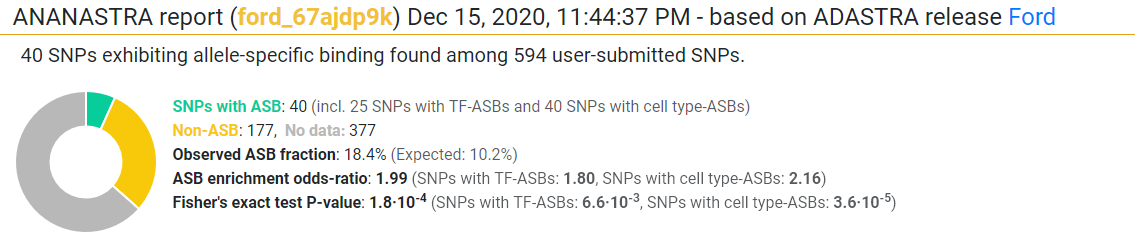
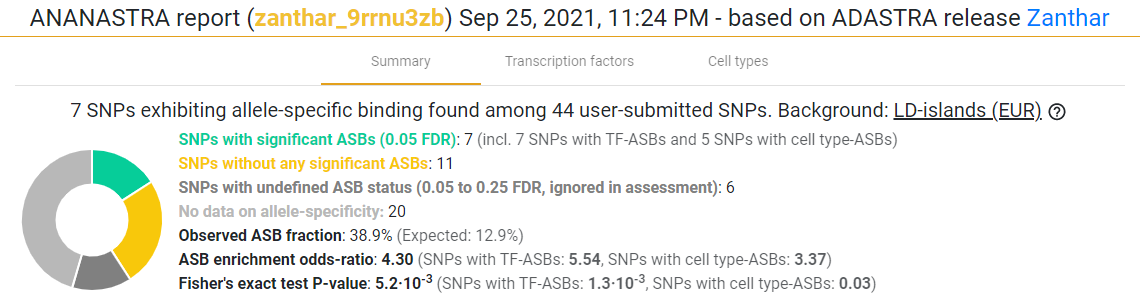
More help fixes

diff --git a/src/app/modules/pages/ananas-help-page/ananas-help.component.html b/src/app/modules/pages/ananas-help-page/ananas-help.component.html
@@ -319,7 +319,7 @@
                             Below the overal statistics, there is a collapsible table of chromosome-wise ASB enrichment data.
                             <span
                                 class="preview d-none d-lg-inline"
-                                (click)="openPreview('summary')"
+                                (click)="openPreview('chromosome')"
                             >
                                     preview
                             </span>

diff --git a/src/app/modules/pages/snp-annotation-main/upload-file/upload-file.component.ts b/src/app/modules/pages/snp-annotation-main/upload-file/upload-file.component.ts
@@ -44,7 +44,7 @@ export class UploadFileComponent implements OnInit, OnDestroy {
     this.formGroup = this.formBuilder.group({
         textArea: '',
         fdr: '0.05',
-        background: 'WG',
+        background: 'LD-EUR',
         es: '0'
     })
   }
